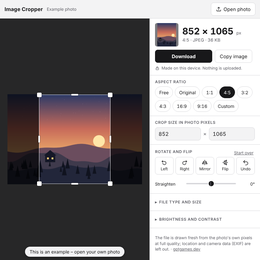
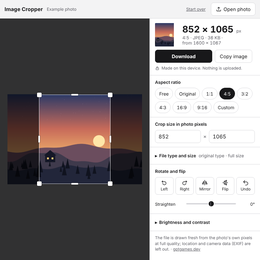
Image Cropper: remade as a private, exact photo cropper
What it does: crops a photo to a free shape, its original ratio, 1:1,
4:5, 3:2, 4:3, 16:9, 9:16 or a typed ratio (5:7, 1.91), or to typed
pixel sizes; rotates, mirrors, flips and straightens; optional resize
(to a width, a height or an exact size) and brightness/contrast; saves
JPEG, PNG or WebP, copies or shares. Nothing leaves the browser.

What changed for the person using it:
- The file is measured as you crop: its exact pixel size, type, byte
  count and a preview sit beside Download, and Download saves that
  very file (encoded off the main thread, cancellable when slow).
- A JPEG stays a JPEG (it came out as PNG before); transparency over
  JPEG becomes white, not black; 1x1 and tiny images work.
- Whole-number ratios give files of exactly that ratio (852 x 1065,
  not 854 x 1067); a released edge snaps onto a clear edge in the
  photo, so a receipt on a phone comes out without a sliver of desk.
- Paste and drop open a photo; undo; keyboard moves and resizes the
  frame; the photo and crop survive a reload for 12 hours, this
  browser only. Last ratio, type, quality and resize are remembered;
  ?ratio=4:5 links preselect a ratio.
- On phones the photo and the result stay pinned while the controls
  scroll beneath.

Why it looks this way: a neutral grey stage because colour is judged
against grey in every photo editor; one white frame and a dimmed
outside, the only things drawn over the photo; tabular figures for
[…]

diff --git a/tools/image_cropper.html b/tools/image_cropper.html
@@ -84,8 +84,8 @@ aside{background:var(--panel);border-left:1px solid var(--line);overflow:auto;di
 .secHead{display:flex;justify-content:space-between;align-items:center}
 .link{background:none;border:0;color:var(--dim);text-decoration:underline;cursor:pointer;font-size:13px;padding:4px}
 .res{display:grid;grid-template-columns:72px 1fr;gap:12px;align-items:center}
-#thumb{width:72px;height:72px;object-fit:contain;background:var(--stage);border-radius:6px}
-#thumb.alpha{background:repeating-conic-gradient(#999 0 25%,#ccc 0 50%) 0 0/10px 10px}
+#thumb{cursor:zoom-in;width:72px;height:72px;object-fit:contain;object-position:left center;border-radius:2px}
+
 .err:empty{min-height:0;margin:0}
 .meta button.fix{background:none;border:0;padding:0;color:inherit;cursor:pointer;font:inherit;text-align:left}
 .priv{font-size:12.5px;color:var(--dim);margin-top:8px;display:flex;gap:6px;align-items:center}
@@ -106,6 +106,11 @@ details .inner{display:grid;gap:10px;margin-top:8px}
 .foot{padding:12px 16px;color:var(--dim);font-size:12.5px;margin-top:auto}
 .foot a{color:inherit}
 .sr{position:absolute;width:1px;height:1px;overflow:hidden;clip:rect(0 0 0 0);white-space:nowrap}
+#big{max-width:96vw;max-height:94dvh;padding:10px;border:0;border-radius:10px;background:var(--panel);color:var(--text)}
+#big::backdrop{background:rgba(0,0,0,.7)}
+#bigImg{display:block;max-width:calc(96vw - 20px);max-height:calc(94dvh - 76px);margin:0 auto 10px;background:repeating-conic-gradient(#999 0 25%,#ccc 0 50%) 0 0/12px 12px}
+#bigClose{width:100%}
+.sum{font-weight:400;color:var(--dim);margin-left:8px}
 #toast{position:fixed;left:50%;bottom:18px;transform:translateX(-50%);background:var(--text);color:var(--bg);padding:8px 14px;border-radius:8px;font-size:14px;opacity:0;transition:opacity .2s;pointer-events:none;z-index:9}
 #toast.on{opacity:1}
 @media (min-width:761px){body{height:100dvh;overflow:hidden}}
@@ -115,7 +120,7 @@ details .inner{display:grid;gap:10px;margin-top:8px}
   aside{border-left:0;overflow:visible}
   #stage{position:sticky;top:0;z-index:3}
   .result{top:var(--sh,45dvh);z-index:2;box-shadow:0 6px 10px -8px rgba(0,0,0,.4)}
-  .result .priv{display:none}
+  .result .priv{margin-top:6px}
   .res{grid-template-columns:52px 1fr;gap:10px}
   #thumb{width:52px;height:52px}
   .take{margin-top:8px}
@@ -152,7 +157,7 @@ details .inner{display:grid;gap:10px;margin-top:8px}
   </div>
   <aside>
     <section class="result" aria-label="Result">
-      <div class="res"><img id="thumb" alt="Preview of the file you will save"><div>
+      <div class="res"><img id="thumb" alt="Preview of the file you will save – tap to see it full size" tabindex="0" role="button"><div>
       <div class="dims" id="dims">– × – <small>px</small></div>
       <div class="meta" id="meta" aria-live="polite"></div></div></div>
       <div class="take">
@@ -184,7 +189,7 @@ details .inner{display:grid;gap:10px;margin-top:8px}
 
     <section class="sec">
       <details id="saveOpts">
-        <summary>File type and size</summary>
+        <summary>File type and size <span class="sum" id="saveSum"></span></summary>
         <div class="inner">
           <div class="row">
             <div class="fld"><label class="lbl" for="fmt">Save as</label>
@@ -231,6 +236,7 @@ details .inner{display:grid;gap:10px;margin-top:8px}
     <p class="foot">The file is drawn fresh from the photo's own pixels at full quality; location and camera data (EXIF) are left out. · <a href="https://www.gptgames.dev/">gptgames.dev</a></p>
   </aside>
 </main>
+<dialog id="big" aria-label="The file you will save"><img id="bigImg" alt="The file you will save"><button class="btn" type="button" id="bigClose">Close</button></dialog>
 <div id="toast" role="status"></div>
 
 <script id="core">
@@ -875,7 +881,8 @@ function syncControls(keepResizeFields) {
     $('bri').value = st.b; $('briOut').textContent = (st.b > 0 ? '+' : '') + st.b; $('con').value = st.c; $('conOut').textContent = (st.c > 0 ? '+' : '') + st.c; }
   $('fmt').value = settings.type; $('qWrap').hidden = outType() === 'image/png';
   if (document.activeElement !== $('quality')) $('quality').value = Math.round(settings.quality * 100);
-  const m = settings.resize.mode; $('resizeMode').value = m; $('resizeRow').hidden = m === 'none';
+  const m = settings.resize.mode; $('resizeMode').value = m;
+  $('saveSum').textContent = (settings.type === 'auto' ? 'original type' : C.FORMATS[settings.type].name) + ' · ' + (m === 'none' ? 'full size' : m === 'width' ? `${settings.resize.w} px wide` : m === 'height' ? `${settings.resize.h} px tall` : `${settings.resize.w} × ${settings.resize.h}`); $('resizeRow').hidden = m === 'none';
   $('rwWrap').hidden = m === 'height'; $('rhWrap').hidden = m === 'width'; $('rx').hidden = m !== 'exact';
   if (!keepResizeFields) { $('rw').value = settings.resize.w || ''; $('rh').value = settings.resize.h || ''; }
   $('ratioLbl').textContent = exact ? `Aspect ratio – set by the exact size ${settings.resize.w} × ${settings.resize.h}` : 'Aspect ratio';
@@ -987,7 +994,7 @@ function done(m) {
   const type = blob.type || p.type, name = C.fileName(photo.name, p.ow, p.oh, type);
   const fell = type !== p.type ? ` (this browser cannot write ${C.FORMATS[p.type].name})` : '';
   $('dl').href = blobUrl; $('dl').download = name;
-  setMeta(`${rl(p.ow, p.oh)}${C.FORMATS[type] ? C.FORMATS[type].name : type} · ${C.formatBytes(blob.size)}${note}${fell} · from ${photo.w} × ${photo.h}`);
+  setMeta(`${rl(p.ow, p.oh)}${C.FORMATS[type] ? C.FORMATS[type].name : type} · ${C.formatBytes(blob.size)}${note}${fell} · from\u00a0${photo.w}\u00a0×\u00a0${photo.h}`);
   $('thumb').src = blobUrl; $('thumb').style.opacity = 1; $('dims').classList.remove('stale'); $('thumb').classList.toggle('alpha', type !== 'image/jpeg');
   setReady(true);
 }
@@ -997,6 +1004,9 @@ function cancel() {
   sendBitmap();
 }
 $('dl').addEventListener('click', e => { if (!blob) { e.preventDefault(); return; } toast(`Saved ${$('dl').download}`); });
+const showBig = () => { if (!blob) return; $('bigImg').src = blobUrl; $('big').showModal(); };
+$('thumb').onclick = showBig; $('thumb').onkeydown = e => { if (e.key === 'Enter' || e.key === ' ') { e.preventDefault(); showBig(); } };
+$('bigClose').onclick = () => $('big').close(); $('big').onclick = e => { if (e.target === $('big')) $('big').close(); };
 $('copyBtn').onclick = async () => {
   if (!blob) return;
   try {
@@ -1017,7 +1027,8 @@ function debounce(f, ms) { let t; return (...a) => { clearTimeout(t); t = setTim
 function resetState() {
   st = {q: 0, fh: false, fv: false, angle: 0, b: 0, c: 0, rect: null};
   const W = work(), r = ratio(), m = C.maxRect(W.w, W.h, 0, r);
-  st.rect = r ? m : {x: W.w * 0.1, y: W.h * 0.1, w: W.w * 0.8, h: W.h * 0.8};
+  // your own photo starts whole, as nothing has been cut yet; the example starts cropped to show what a frame does
+  st.rect = r ? m : photo.example ? {x: W.w * 0.1, y: W.h * 0.1, w: W.w * 0.8, h: W.h * 0.8} : {x: 0, y: 0, w: W.w, h: W.h};
   if (r) { const k = 0.9; st.rect = {x: m.x + m.w * (1 - k) / 2, y: m.y + m.h * (1 - k) / 2, w: m.w * k, h: m.h * k}; }
 }
 async function openFile(file) {
